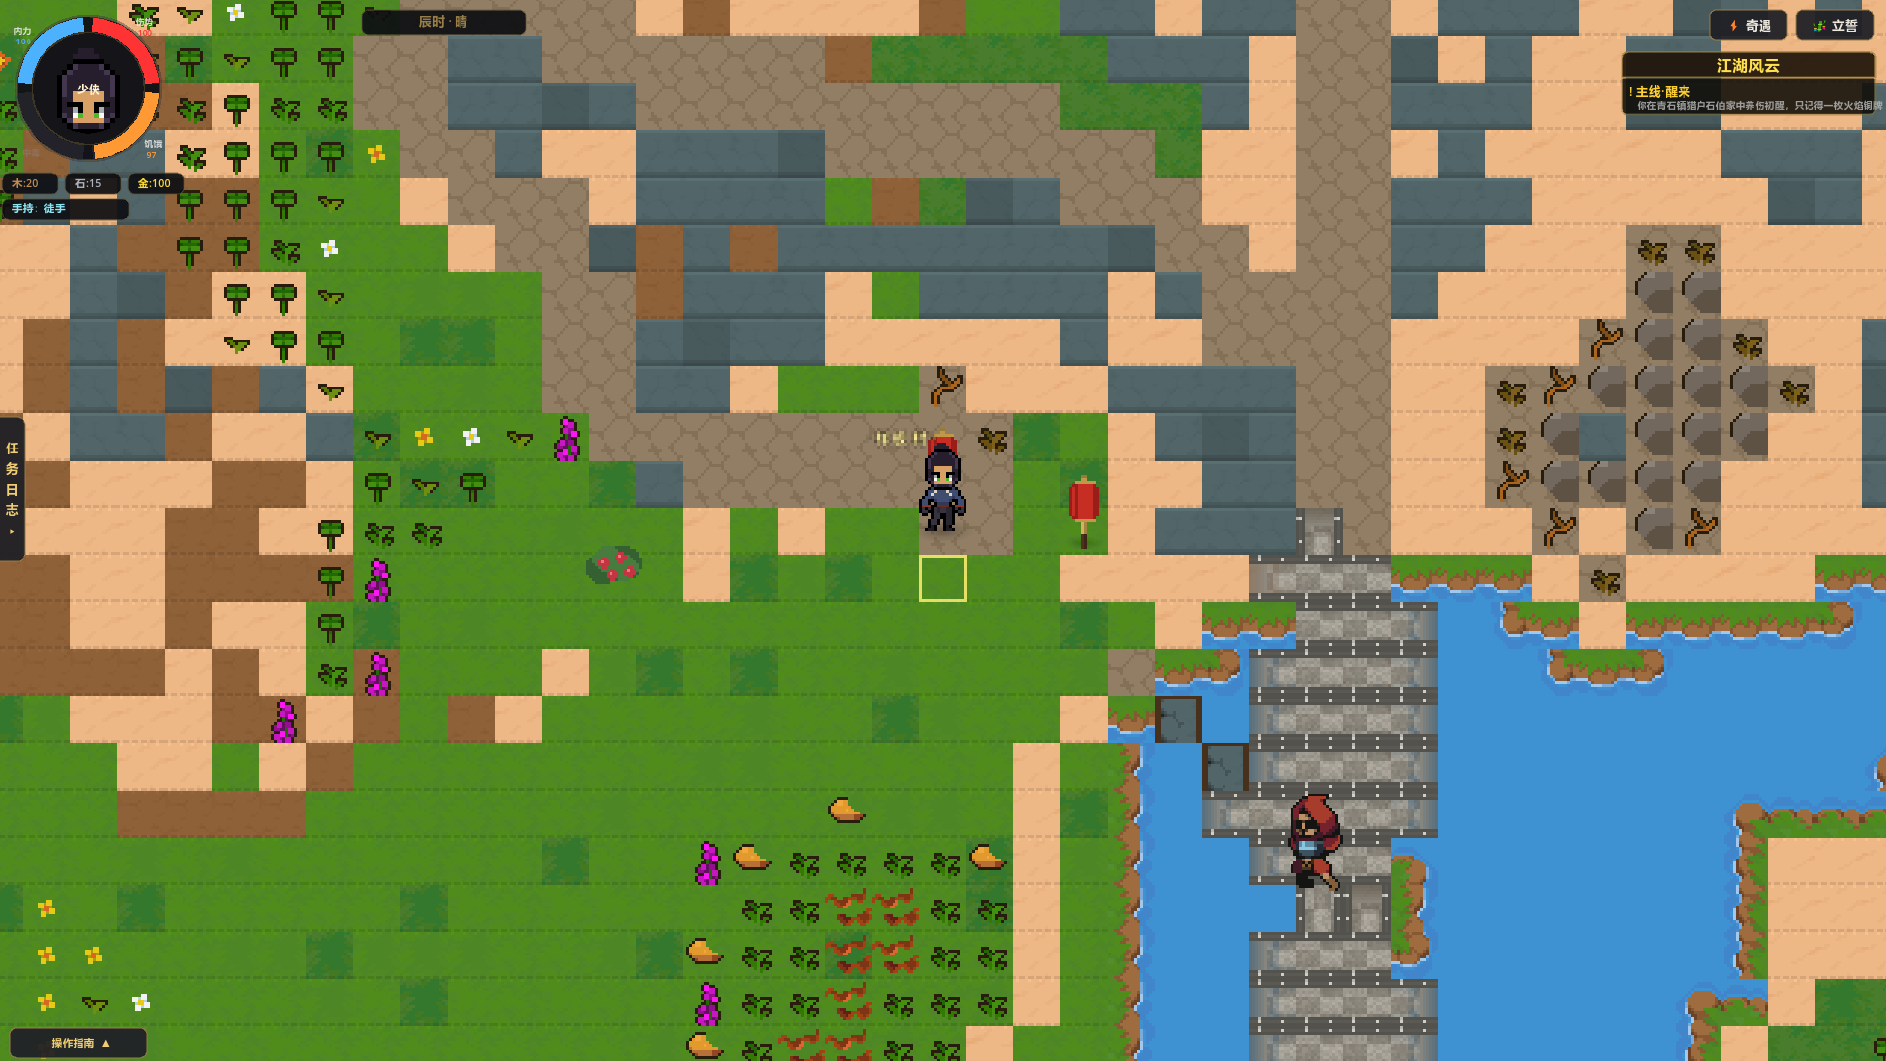
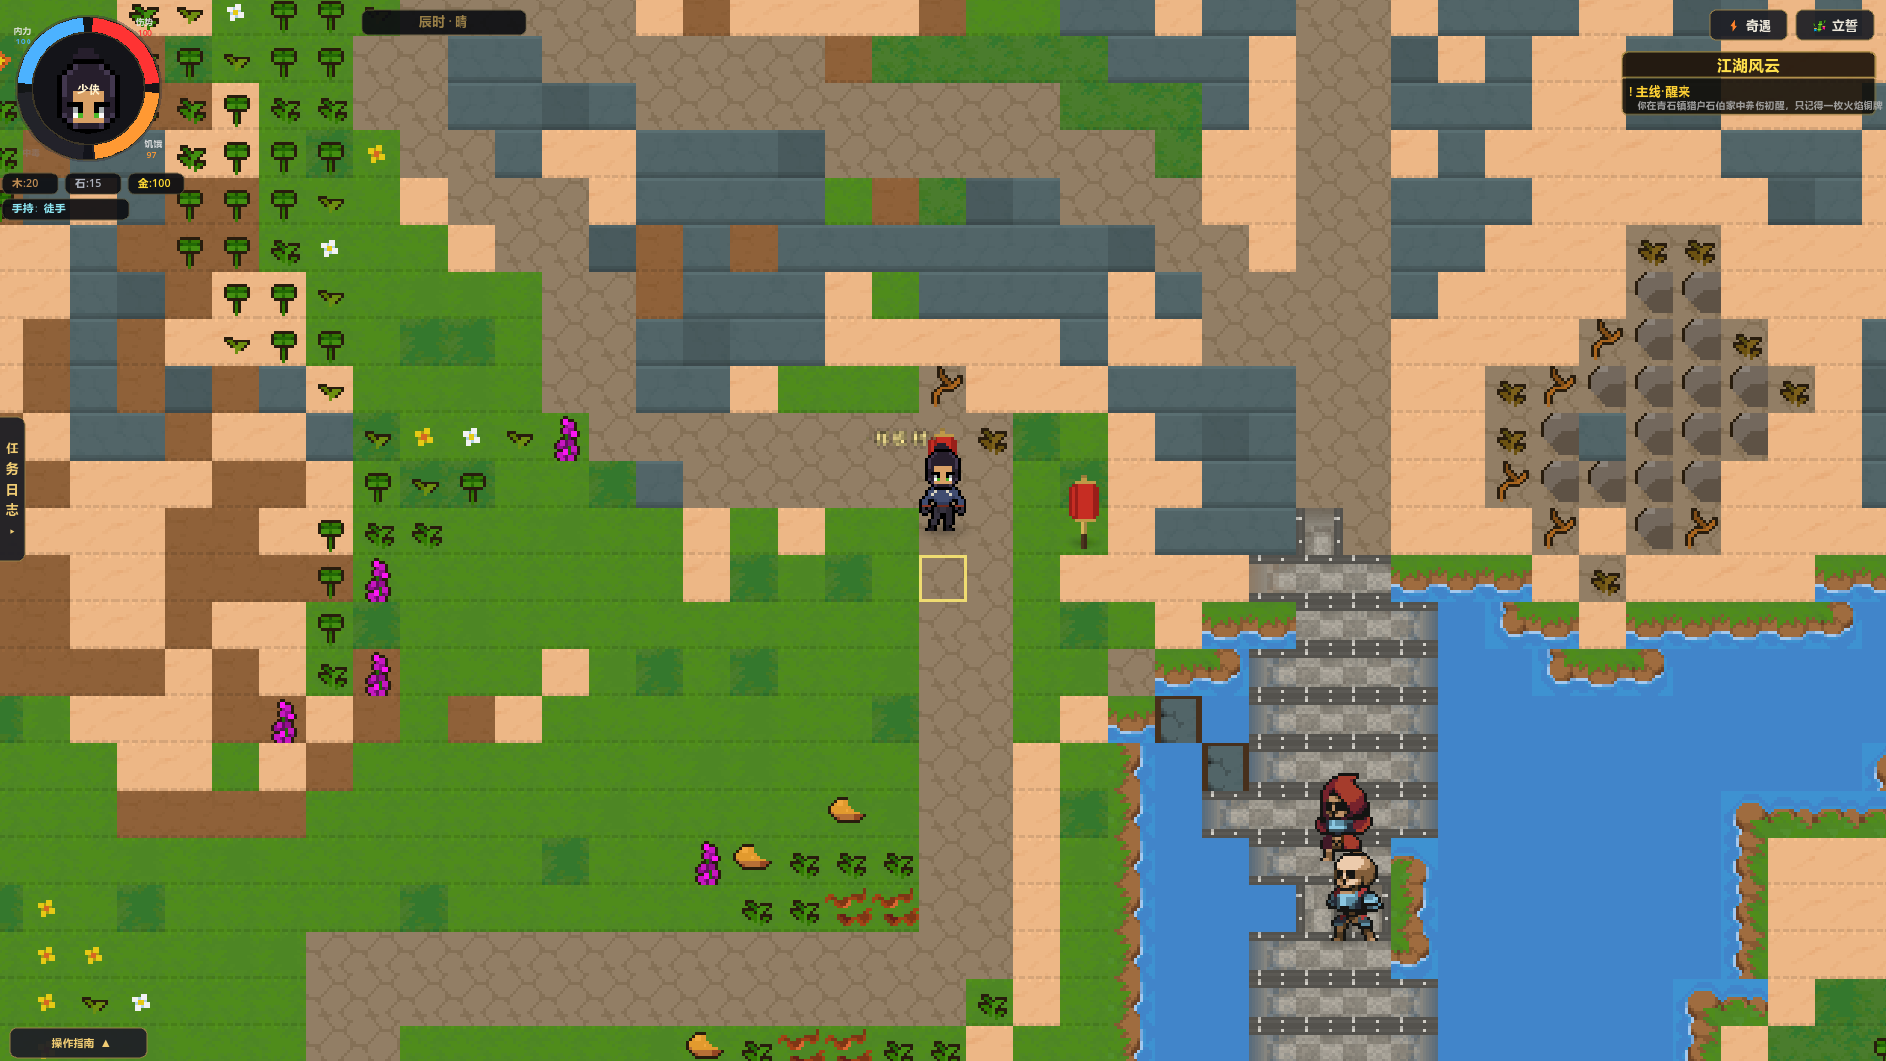
feat: 城镇样板区P1路网与地块——三级路网+9地块记录制划分（102断言全绿）
- _stamp_plots()：9 地块表驱动记录制（北带谷仓/水井广场/温室+南带农舍A/长屋/农舍B/杂货铺+
  菜圃A/B），bounds/door 全局坐标供 P2 建筑落位与 P3 院围消费；door 4 格内有巷 100%
- _lay_roads()：连接巷 2 宽接区口 + 主巷 3 段大弯 2 宽（弯幅3格几字形对齐材质包样图走势，
  弯折竖向过渡 2 宽）+ 纵巷x3/横巷 1 宽通菜圃 + 水井广场石板35（8x8 邻主巷）
- 首版主巷 4 段仅 1 格错位近直线不达样图，改 3 段大弯后全景走查达标；铺装全部无碰撞瓦片
  且先于 chunk 预载（override 上漆一次性契约）
- probe_demo_shots.gd 支持 zoom 机位（p1_overview 全区俯瞰）；新增 5 张 P1 截图入库
- regress_world.py 102 PASS / 0 FAIL

Changed region(s): [[0.1538, 0.4976, 0.5536, 1.0], [0.6766, 0.7154, 0.7381, 0.902], [0.3075, 0.4976, 0.3383, 0.5598]]

diff --git a/docs/样板区-进度日志.md b/docs/样板区-进度日志.md
@@ -7,22 +7,23 @@
 
 ## 当前状态（新会话从这里接手）
 
-- **P0 立项与骨架：✅ 已完成（2026-09-02）**，全量回归 102 PASS / 0 FAIL，4 机位截图入库 docs/shots/demo_p0_*.png
+- **P0 骨架 + P1 路网地块：✅ 已完成（2026-09-02）**，回归 102 PASS / 0 FAIL；
+  截图 docs/shots/demo_p0_*.png（4机位）+ demo_p1_*.png（5机位，含 zoom1.1 全景 p1_overview）
 - 实测选址（seed=12345）：**rect=[P:(15,43) S:(56,44)]，中心 (43,65)，距出生点 (49,23) 42 格**；
   区口 gate_in=(67,43)；入口路=官道(75,43)→区口 8 格；平整山/水 309 格（13.4%）
-- 已交付：
-  1. `scripts/town_demo_kit.gd` 新模块（挂 WorldGenerator 下，FLAG `demo_town` 门控）：
-     网格扫描选址（步长6/半径150/按距出生点排序，净地+官道可接入双条件）→
-     clearance/平整/chunk 登记 → 入口路（官道→区口 BFS 绕障碍，2 宽 path）→
-     边界灯柱×8（四角+四边中点）→ "· 样 板 村 ·" 立牌（青石城城名标同款）
-  2. `scripts/world_features.gd`：FLAG 登记 `"demo_town": true`
-  3. `scripts/world_generator.gd` 三处最小改动：`TownDemoKit` preload 常量、
-     `_ready` 尾部唯一接线点（_dress_farm_bands 后）、`demo_zone_rect` 属性 +
-     `is_in_settlement` 纳入样板区（营地/野怪自动避让，`camp_wild` 断言实测仍 PASS）
-- 截图走查结论：立牌金字/区口灯柱/东北角灯柱/入口路 2 宽碎石/区内零树零山水/平整生效 全部 ✓；
-  角机位灯柱"不可见"系玩家与灯柱同格重叠（Y-sort 灯柱前景仅露边缘），非缺陷
-- **下一阶段 P1 路网与地块**：三级路网（主巷2宽碎石/支巷1宽土路/门前台阶）+ 地块划分，
-  主巷从 `gate_in=(67,43)` 沿 inward(-1,0) 方向（向西）延续；入口路现有断续并行线 P1 重排
+- **P1 路网布局（局部坐标，全局=rect.position+局部）**：
+  - 连接巷 2 宽 x=52,53（y0..9）接区口；主巷 3 段大弯 2 宽：[x3..20,y9] → [x21..38,y12] →
+    [x39..52,y9]，弯折竖向过渡 2 宽（x21,22 / x39,40 的 y9..12）——"几"字形蜿蜒对齐材质包样图
+  - 支巷 1 宽：纵巷×3（局部 x=15/29/41，y14..27 地块间隙）+ 横巷 y=27（x9..47 通菜圃北门）
+  - 水井广场石板 35（局部 x24..31, y4..11，南缘邻主巷段2）
+  - 地块 9 块（plots 记录制）：barn/well_plaza/greenhouse（北带）+ house_a/longhouse/house_b/shop
+    （南带 door 全部贴主巷 y=13 行，"门4格内有巷"100%）+ farm_a/farm_b（door 在横巷 y=27）
+- 已交付模块：`scripts/town_demo_kit.gd`（FLAG `demo_town`）+ world_features FLAG +
+  world_generator 三处最小接线（preload/_ready 尾部/demo_zone_rect+is_in_settlement）
+- **下一阶段 P2 建筑 Prefab**：4 种 prefab 合成（gable_house/barn/greenhouse/shop_stall）+
+  按 plots bounds/door 落位（门朝巷）；每栋 ≥4 要素（木框抹灰墙/瓦楞顶+烟囱/门窗台/檐下道具）
+- P1 遗留微调（P2 时顺手）：入口路 P0 版的断续并行线与连接巷并存（视觉小重复，可在 P2 重铺
+  入口路为 1 段规整 2 宽）；主巷西端距区缘 3 格断头（P4 果园带补景）
 
 ## 关键事实速查（已核实，避免重复调查）
 
@@ -67,11 +68,15 @@
 | P0.7 回归 | regress_world.py **102 PASS / 0 FAIL**（最终代码状态下复跑确认）；DemoKit 日志五行入 regress_world_log.txt | ✅ | tools/regress_p0_final.txt |
 | P0.8 截图验证 | `run_demo_shots.py` 4 机位入库 docs/shots/demo_p0_*.png；走查：立牌/灯柱/入口路/平整/净空全 ✓ | ✅ | 角机位灯柱与玩家同格重叠非缺陷 |
 
-## P1 路网与地块（未开始）
+## P1 路网与地块（2026-09-02 完成）
 
-- [ ] `_lay_roads()`：主巷 2 宽碎石从 `gate_in` 贯穿全区 → 支巷 1 宽 → 门前台阶
-- [ ] `_stamp_plots()`：地块划分（记录 rect 供建筑/院落消费）
-- [ ] DoD：俯瞰截图路网结构 vs 材质包样图路网，走势/宽度一致
+| 步骤 | 内容 | 状态 | 产出/备注 |
+|------|------|------|-----------|
+| P1.1 地块划分 | `_stamp_plots()` 记录制 9 地块（kind/bounds/door 全局坐标表驱动）；门位全贴巷（door 4 格内有巷 100%） | ✅ | plots 数组供 P2/P3 消费 |
+| P1.2 主巷 | 3 段大弯 2 宽（弯幅 3 格）+竖向过渡——首版 4 段仅 1 格错位"近直线"不达样图走势，改大弯后全景走查 ✓ | ✅ | 竖过渡 2 宽 x21,22/39,40 |
+| P1.3 支巷 | 纵巷×3（地块间隙 x=15/29/41）+横巷 y=27 通菜圃；谷仓门 (9,9) 即巷 | ✅ | 1 宽 |
+| P1.4 广场 | 水井广场石板 35（8×8），南缘邻主巷 | ✅ | P3 落水井 |
+| P1.5 回归+截图 | 102 PASS / 0 FAIL；p1_overview 全景（zoom1.1）走查：三级路网/广场/官道桥衔接全 ✓ | ✅ | probe_demo_shots.gd 支持 zoom 机位 |
 
 ## P2 建筑 Prefab（未开始）
 
